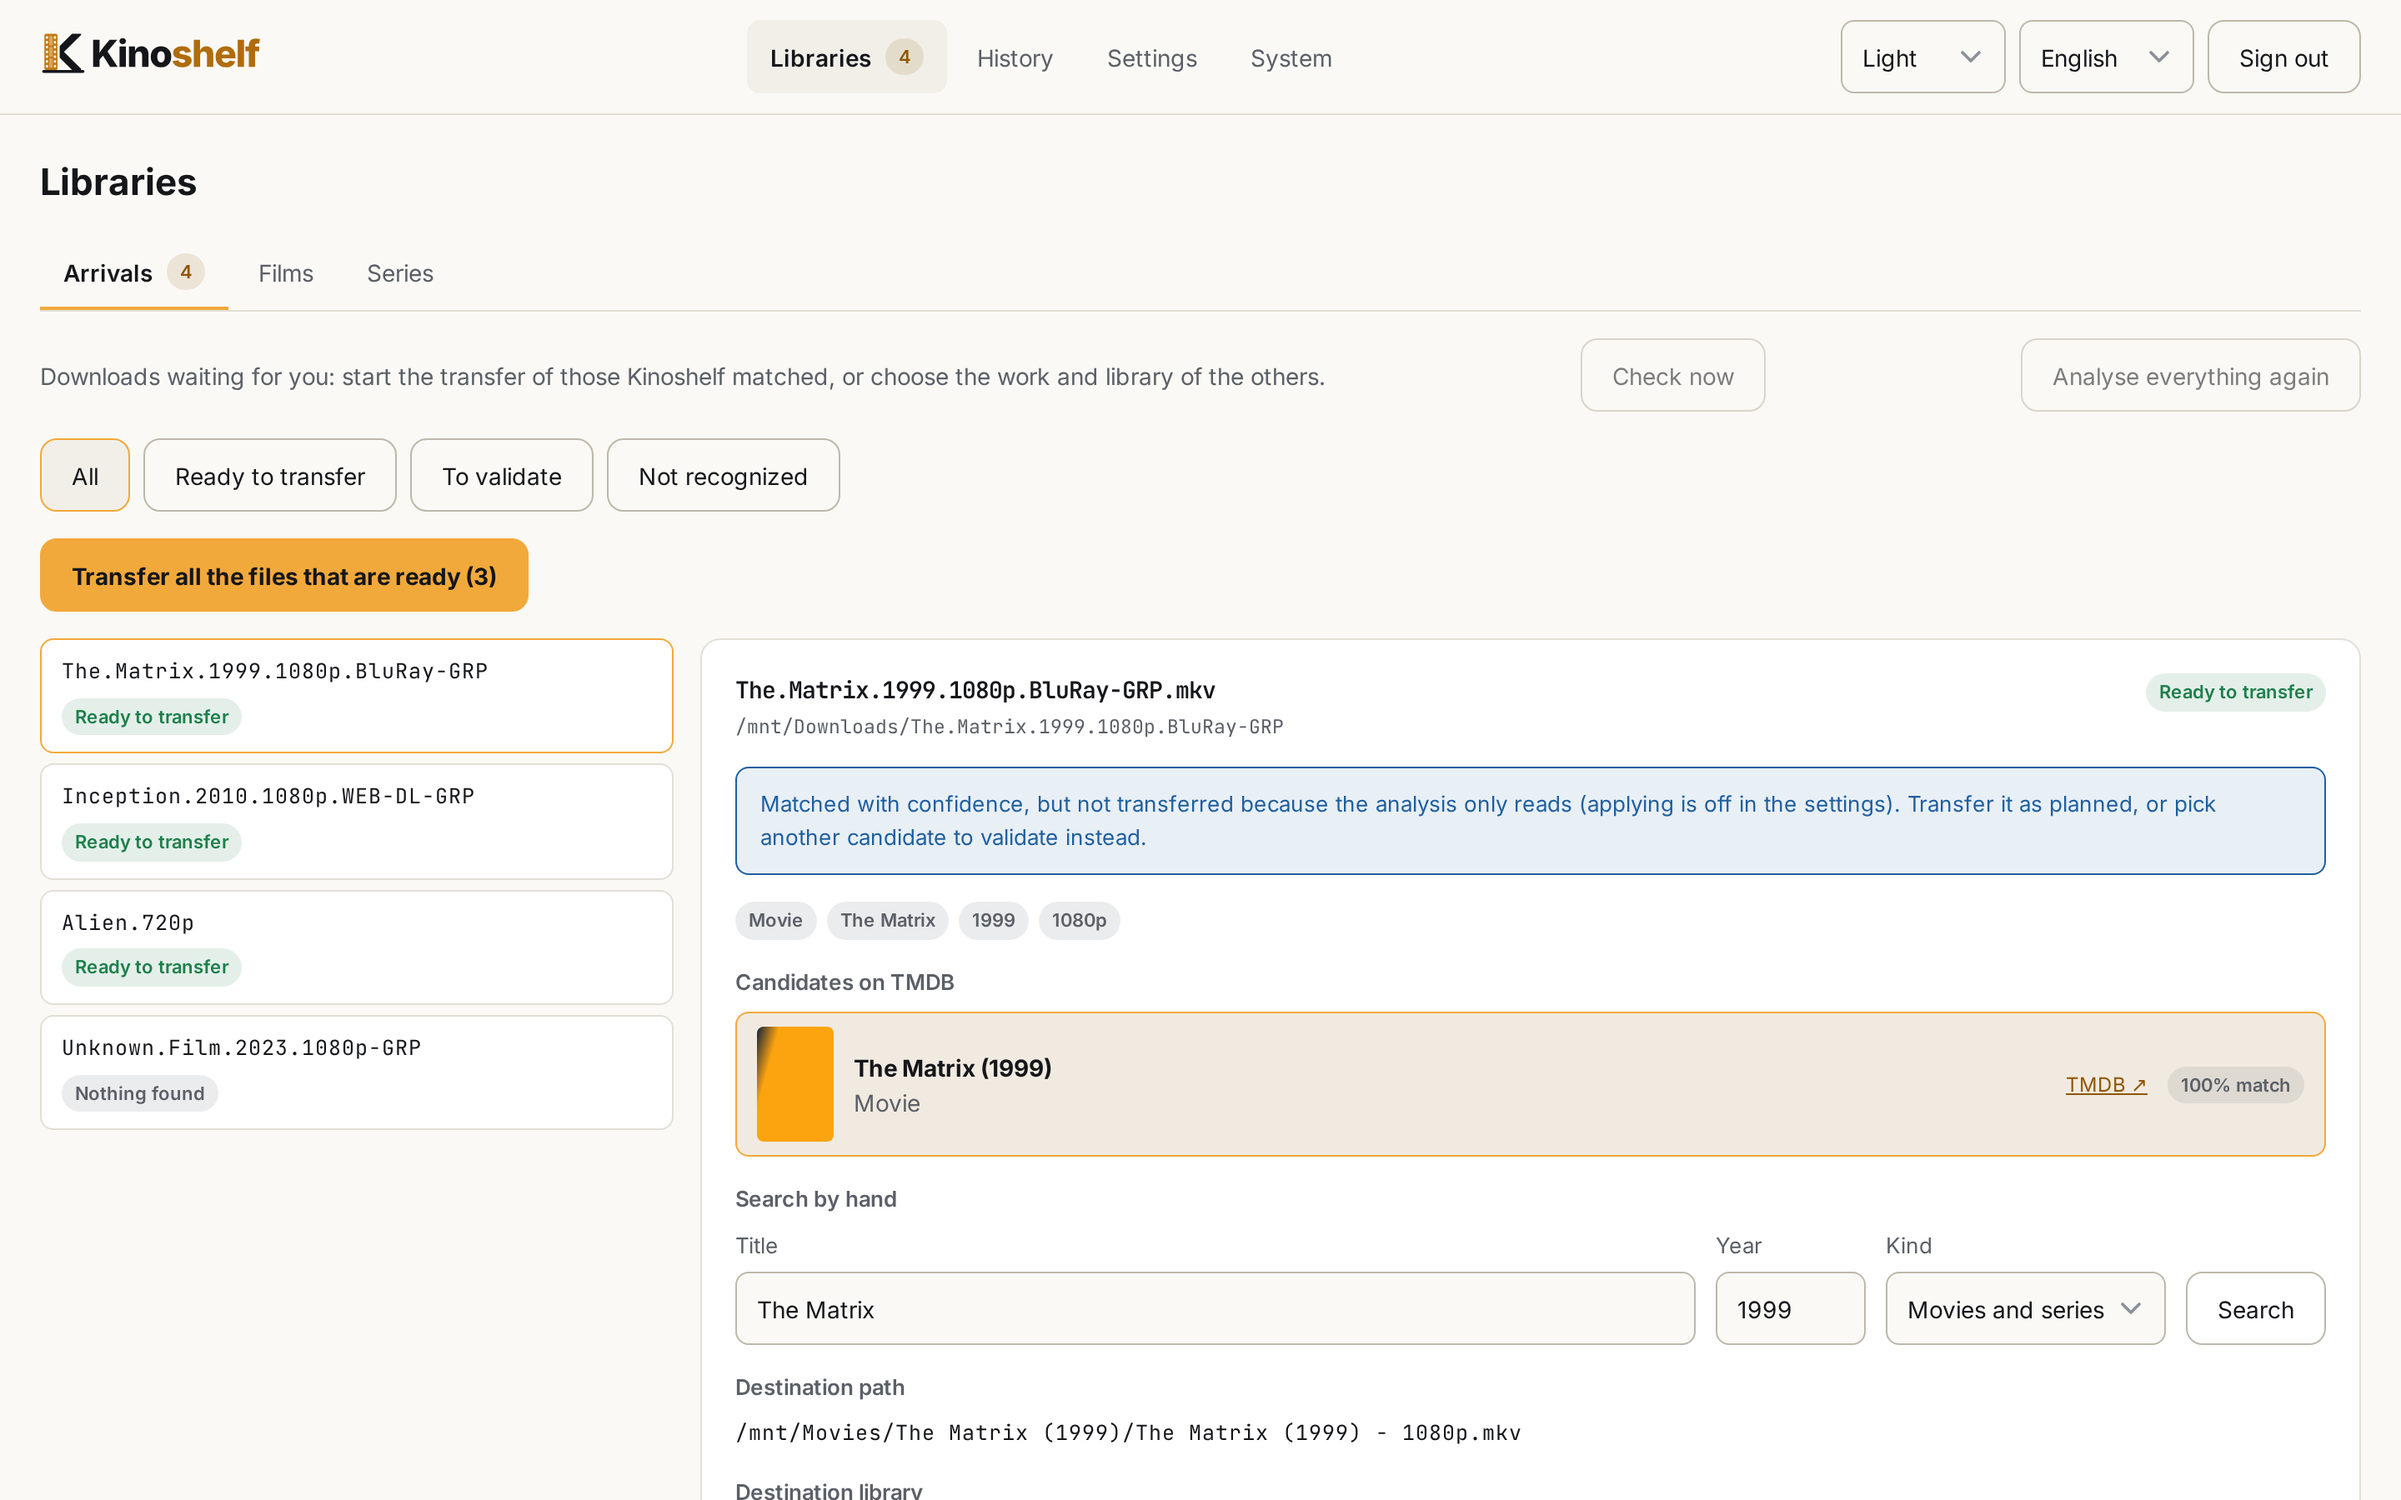
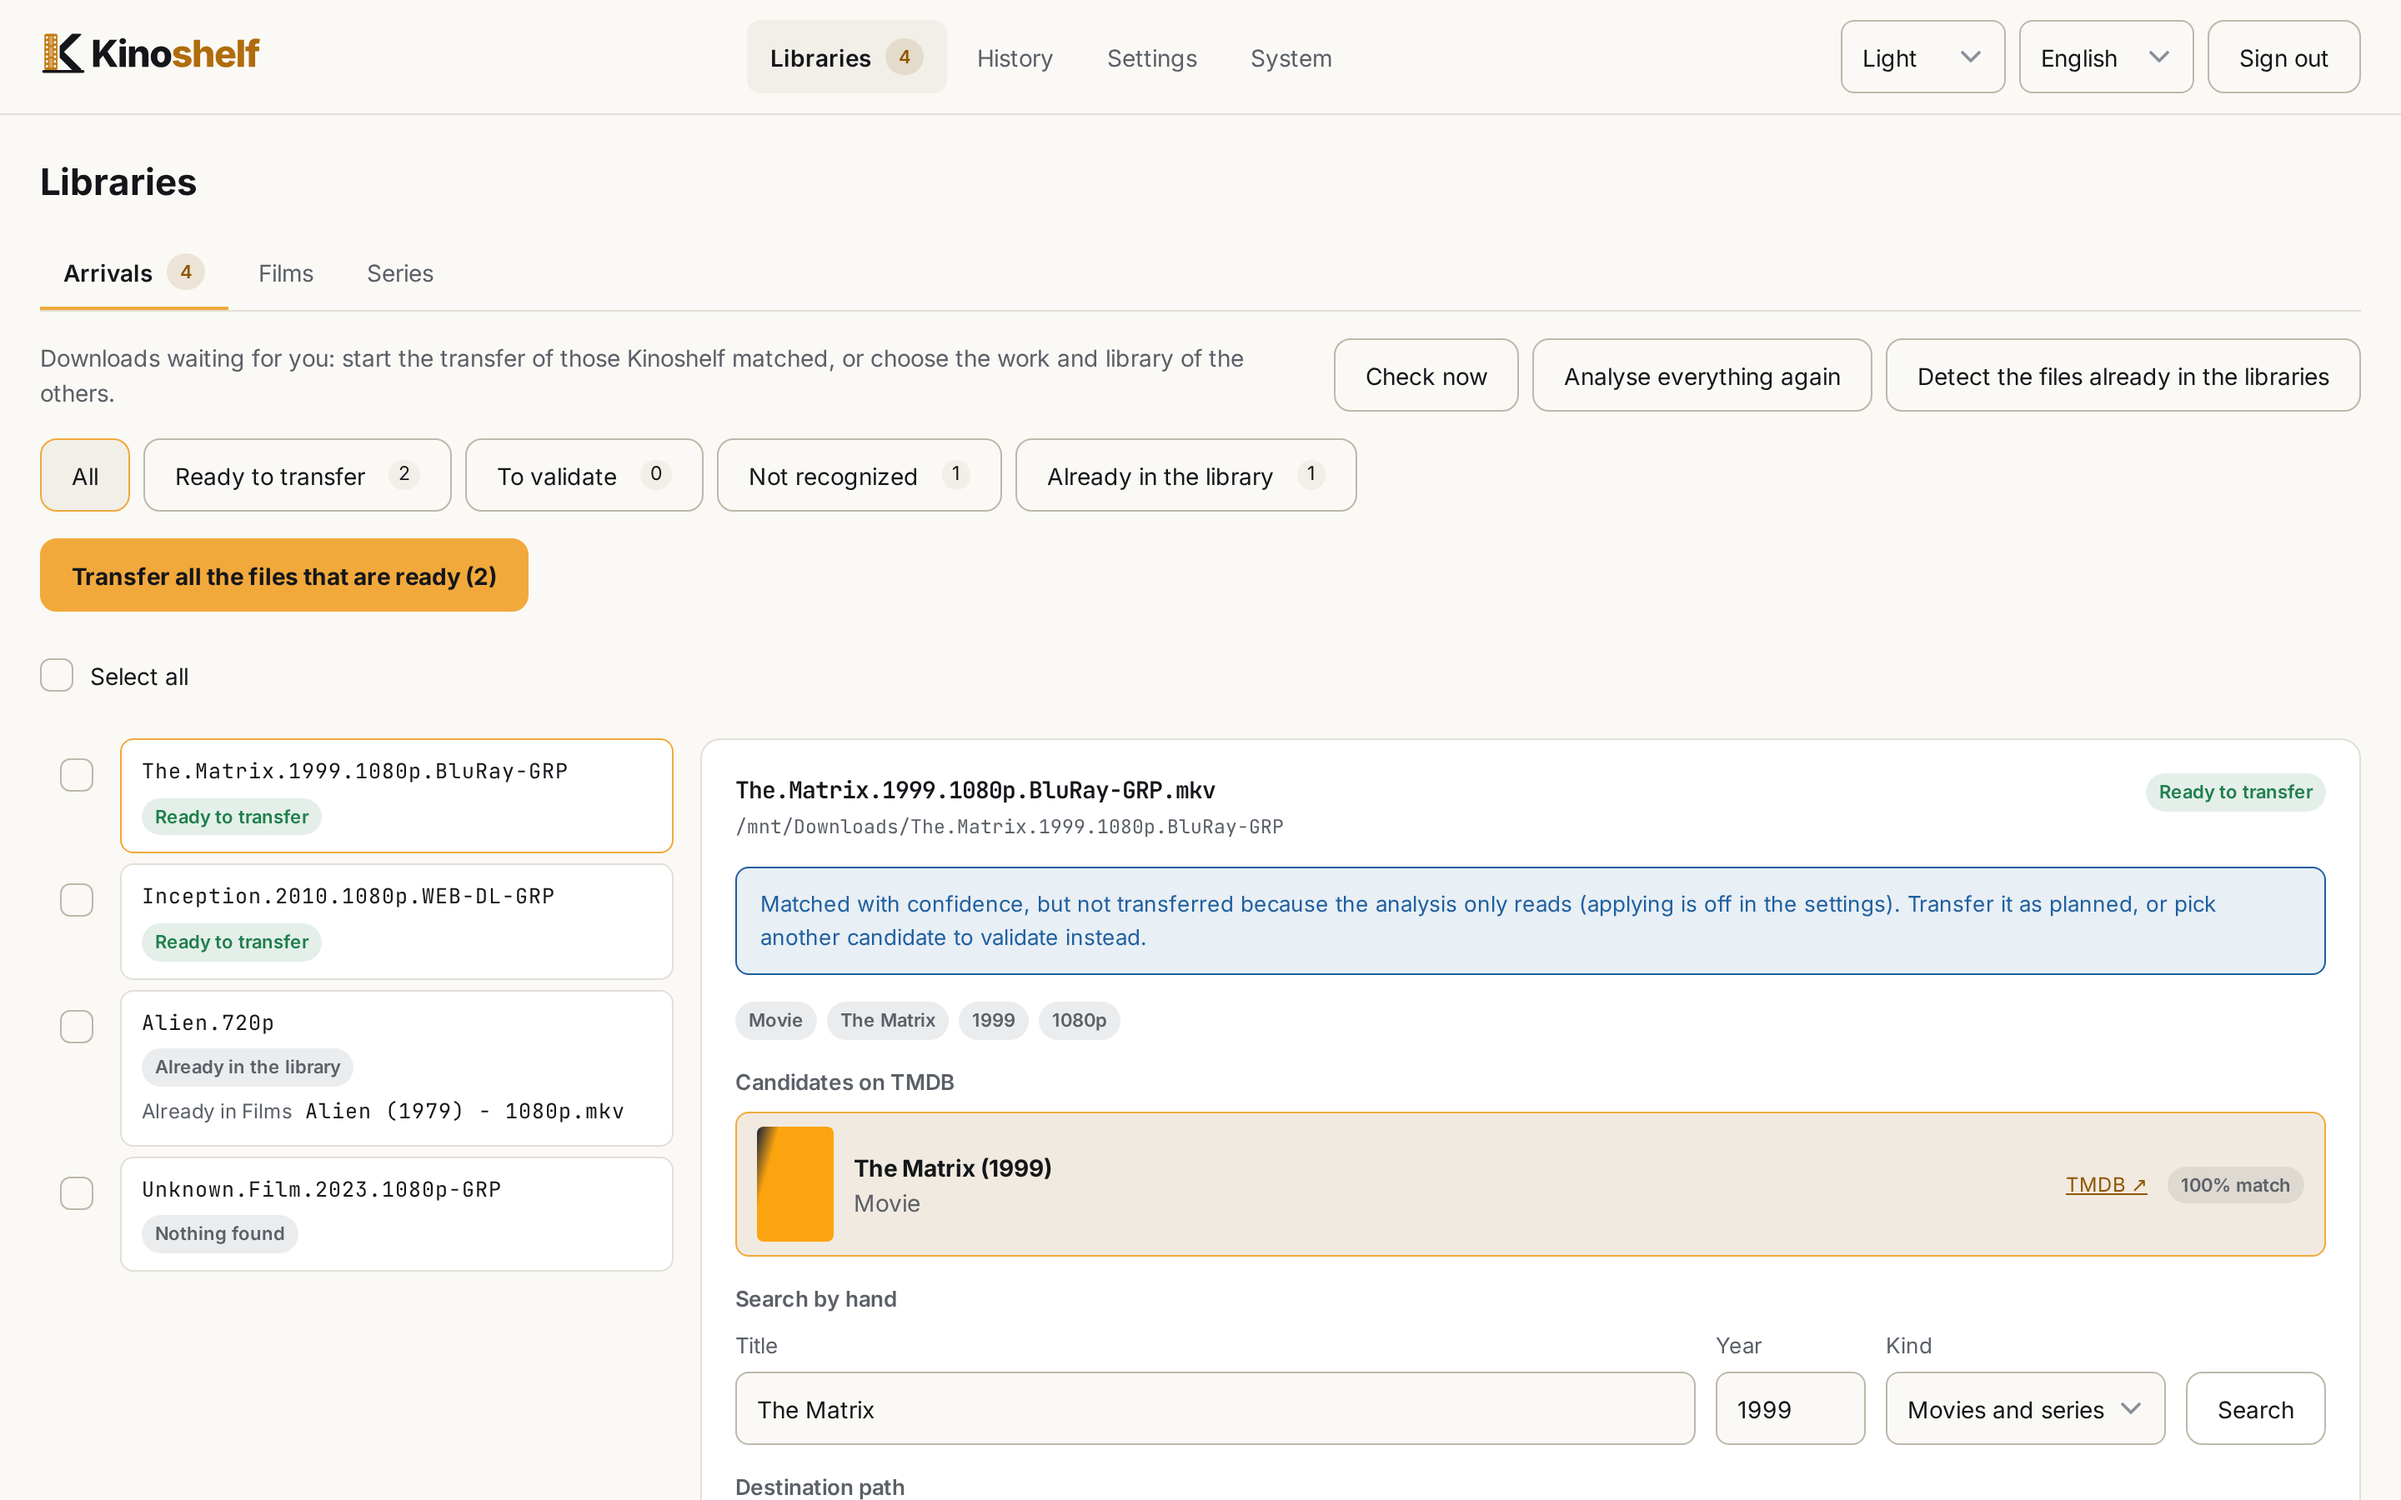
docs: describe the scan a library gets when made, refresh the Arrivals shot
The Arrivals buttons are one group, side by side with an even gap, and
wrap together on a narrow screen.

Refs #32

diff --git a/packages/web/src/components/ArrivalsView.svelte b/packages/web/src/components/ArrivalsView.svelte
@@ -267,39 +267,41 @@
 <div class="stack">
   <div class="intro">
     <p class="muted">{t('web.arrivals.intro')}</p>
-    <Tip text={watch?.scannable ? undefined : t('web.arrivals.check.none')}>
-      {#snippet children(describedby)}
-        <button
-          type="button"
-          class="btn"
-          disabled={!watch?.scannable || checking}
-          aria-describedby={describedby}
-          onclick={() => void checkNow()}>{t('web.arrivals.check')}</button
-        >
-      {/snippet}
-    </Tip>
-    <Tip text={t('web.arrivals.recheck.hint')}>
-      {#snippet children(describedby)}
-        <button
-          type="button"
-          class="btn"
-          disabled={!watch?.scannable || checking}
-          aria-describedby={describedby}
-          onclick={() => void checkNow(true)}>{t('web.arrivals.recheck')}</button
-        >
-      {/snippet}
-    </Tip>
-    <Tip text={t('web.arrivals.detect.hint')}>
-      {#snippet children(describedby)}
-        <button
-          type="button"
-          class="btn"
-          disabled={detecting}
-          aria-describedby={describedby}
-          onclick={() => void detect()}>{t('web.arrivals.detect')}</button
-        >
-      {/snippet}
-    </Tip>
+    <div class="actions">
+      <Tip text={watch?.scannable ? undefined : t('web.arrivals.check.none')}>
+        {#snippet children(describedby)}
+          <button
+            type="button"
+            class="btn"
+            disabled={!watch?.scannable || checking}
+            aria-describedby={describedby}
+            onclick={() => void checkNow()}>{t('web.arrivals.check')}</button
+          >
+        {/snippet}
+      </Tip>
+      <Tip text={t('web.arrivals.recheck.hint')}>
+        {#snippet children(describedby)}
+          <button
+            type="button"
+            class="btn"
+            disabled={!watch?.scannable || checking}
+            aria-describedby={describedby}
+            onclick={() => void checkNow(true)}>{t('web.arrivals.recheck')}</button
+          >
+        {/snippet}
+      </Tip>
+      <Tip text={t('web.arrivals.detect.hint')}>
+        {#snippet children(describedby)}
+          <button
+            type="button"
+            class="btn"
+            disabled={detecting}
+            aria-describedby={describedby}
+            onclick={() => void detect()}>{t('web.arrivals.detect')}</button
+          >
+        {/snippet}
+      </Tip>
+    </div>
   </div>
 
   <div class="filters" role="group" aria-label={t('web.arrivals.filter.label')}>
@@ -522,7 +524,18 @@
   }
 
   .intro p {
+    flex: 1 1 22rem;
     margin: 0;
+  }
+
+  /* The buttons stay one group: side by side with an even gap, wrapping together on a narrow screen. */
+  .actions {
+    display: flex;
+    flex-wrap: wrap;
+    align-items: center;
+    gap: 8px;
+    /* Pushed right beside the text; on a line of its own it starts at the left, like the filters. */
+    margin-left: auto;
   }
 
   .filters {

diff --git a/docs/2-libraries.md b/docs/2-libraries.md
@@ -19,7 +19,8 @@ is waiting or running. Nothing is stored, so the library keeps what its last sca
 
 What the scan saw is kept as a **snapshot**: the lists read it, never the disk and never TMDB, so
 they are instant. It is patched after each transfer, undo or manual match, and replaced as a whole by
-the next scan. Nothing scans on its own: a scan comes from a click, from the folder watcher or from
+the next scan. A library organized in place is scanned once when it is made (and when Kinoshelf starts, if
+nobody ever scanned it); after that a scan comes from a click, from the folder watcher or from
 `kinoshelf submit`.
 
 In the background, once no job runs, `ffprobe` reads each file (picture size, codec, HDR, audio,
